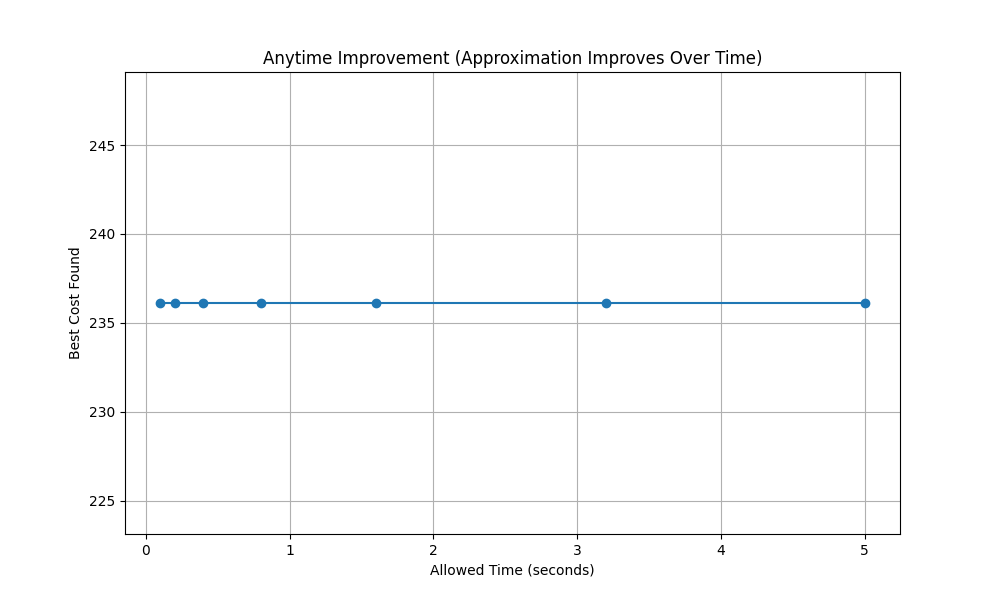
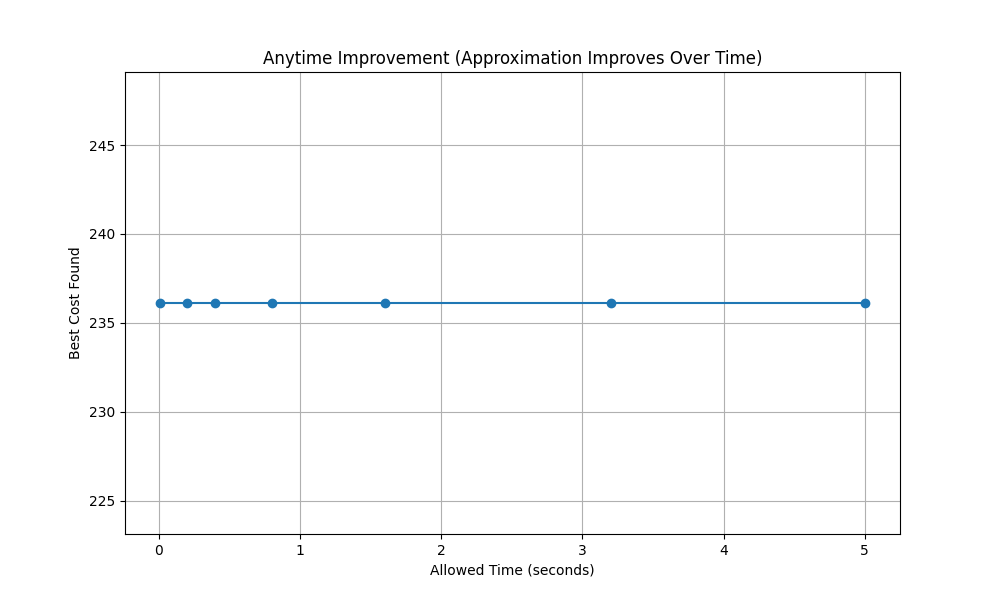
updated test cases

diff --git a/blake_approx_solution/make_plots.py b/blake_approx_solution/make_plots.py
@@ -317,7 +317,7 @@ def generate_all_plots():
     # ANYTIME PLOT
     # ---------------------------------------------------------
     test_for_anytime = os.path.join(TESTCASE_DIR, "test_case_50.txt")
-    times = [0.1, 0.2, 0.4, 0.8, 1.6, 3.2, 5.0]
+    times = [0.01, 0.2, 0.4, 0.8, 1.6, 3.2, 5.0]
 
     anytime_costs = run_anytime(test_for_anytime, times)
 
